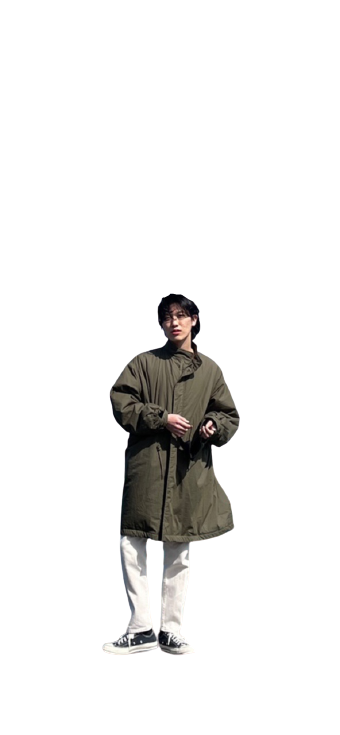
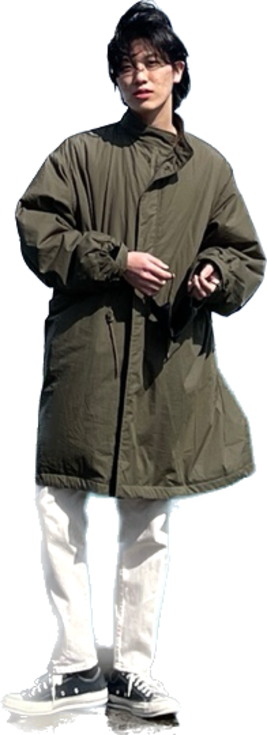
docs: lv4 mission 작성

diff --git a/src/components/Intro.js b/src/components/Intro.js
@@ -1,7 +1,7 @@
 import { motion } from "framer-motion";
 import { useEffect, useState } from "react";
 import styled from "styled-components";
-import Me from '../assets/Images/profile-img3.png';
+import Me from '../assets/Images/profile-img5.png';
 import { mediaQueries } from "./Themes";
 
 const Box = styled(motion.div)`
@@ -97,18 +97,19 @@ const SubBox = styled.div`
   display: flex;
   .pic {
     position: absolute;
-    bottom: 0;
+    bottom: 5%;
     left: 50%;
     transform: translate(-50%, 0%);
-    width: 85%;
+    width: 60%;
     height: auto;
   }
+  
   ${mediaQueries(50)`
       width: 100%;
     height: 50%;
       .pic {
     
-    width: 70%;
+    width: 65%;
     
   }
 
@@ -118,7 +119,7 @@ const SubBox = styled.div`
   
       .pic {
     
-    width: 60%;
+    width: 54%;
     
   }
 
@@ -129,7 +130,7 @@ const SubBox = styled.div`
 
       .pic {
     
-    width: 90%;
+    width: 55%;
     
   }
 
@@ -139,7 +140,7 @@ const SubBox = styled.div`
 
      .pic {
    
-   width: 80%;
+   width: 25%;
    
  }
 
